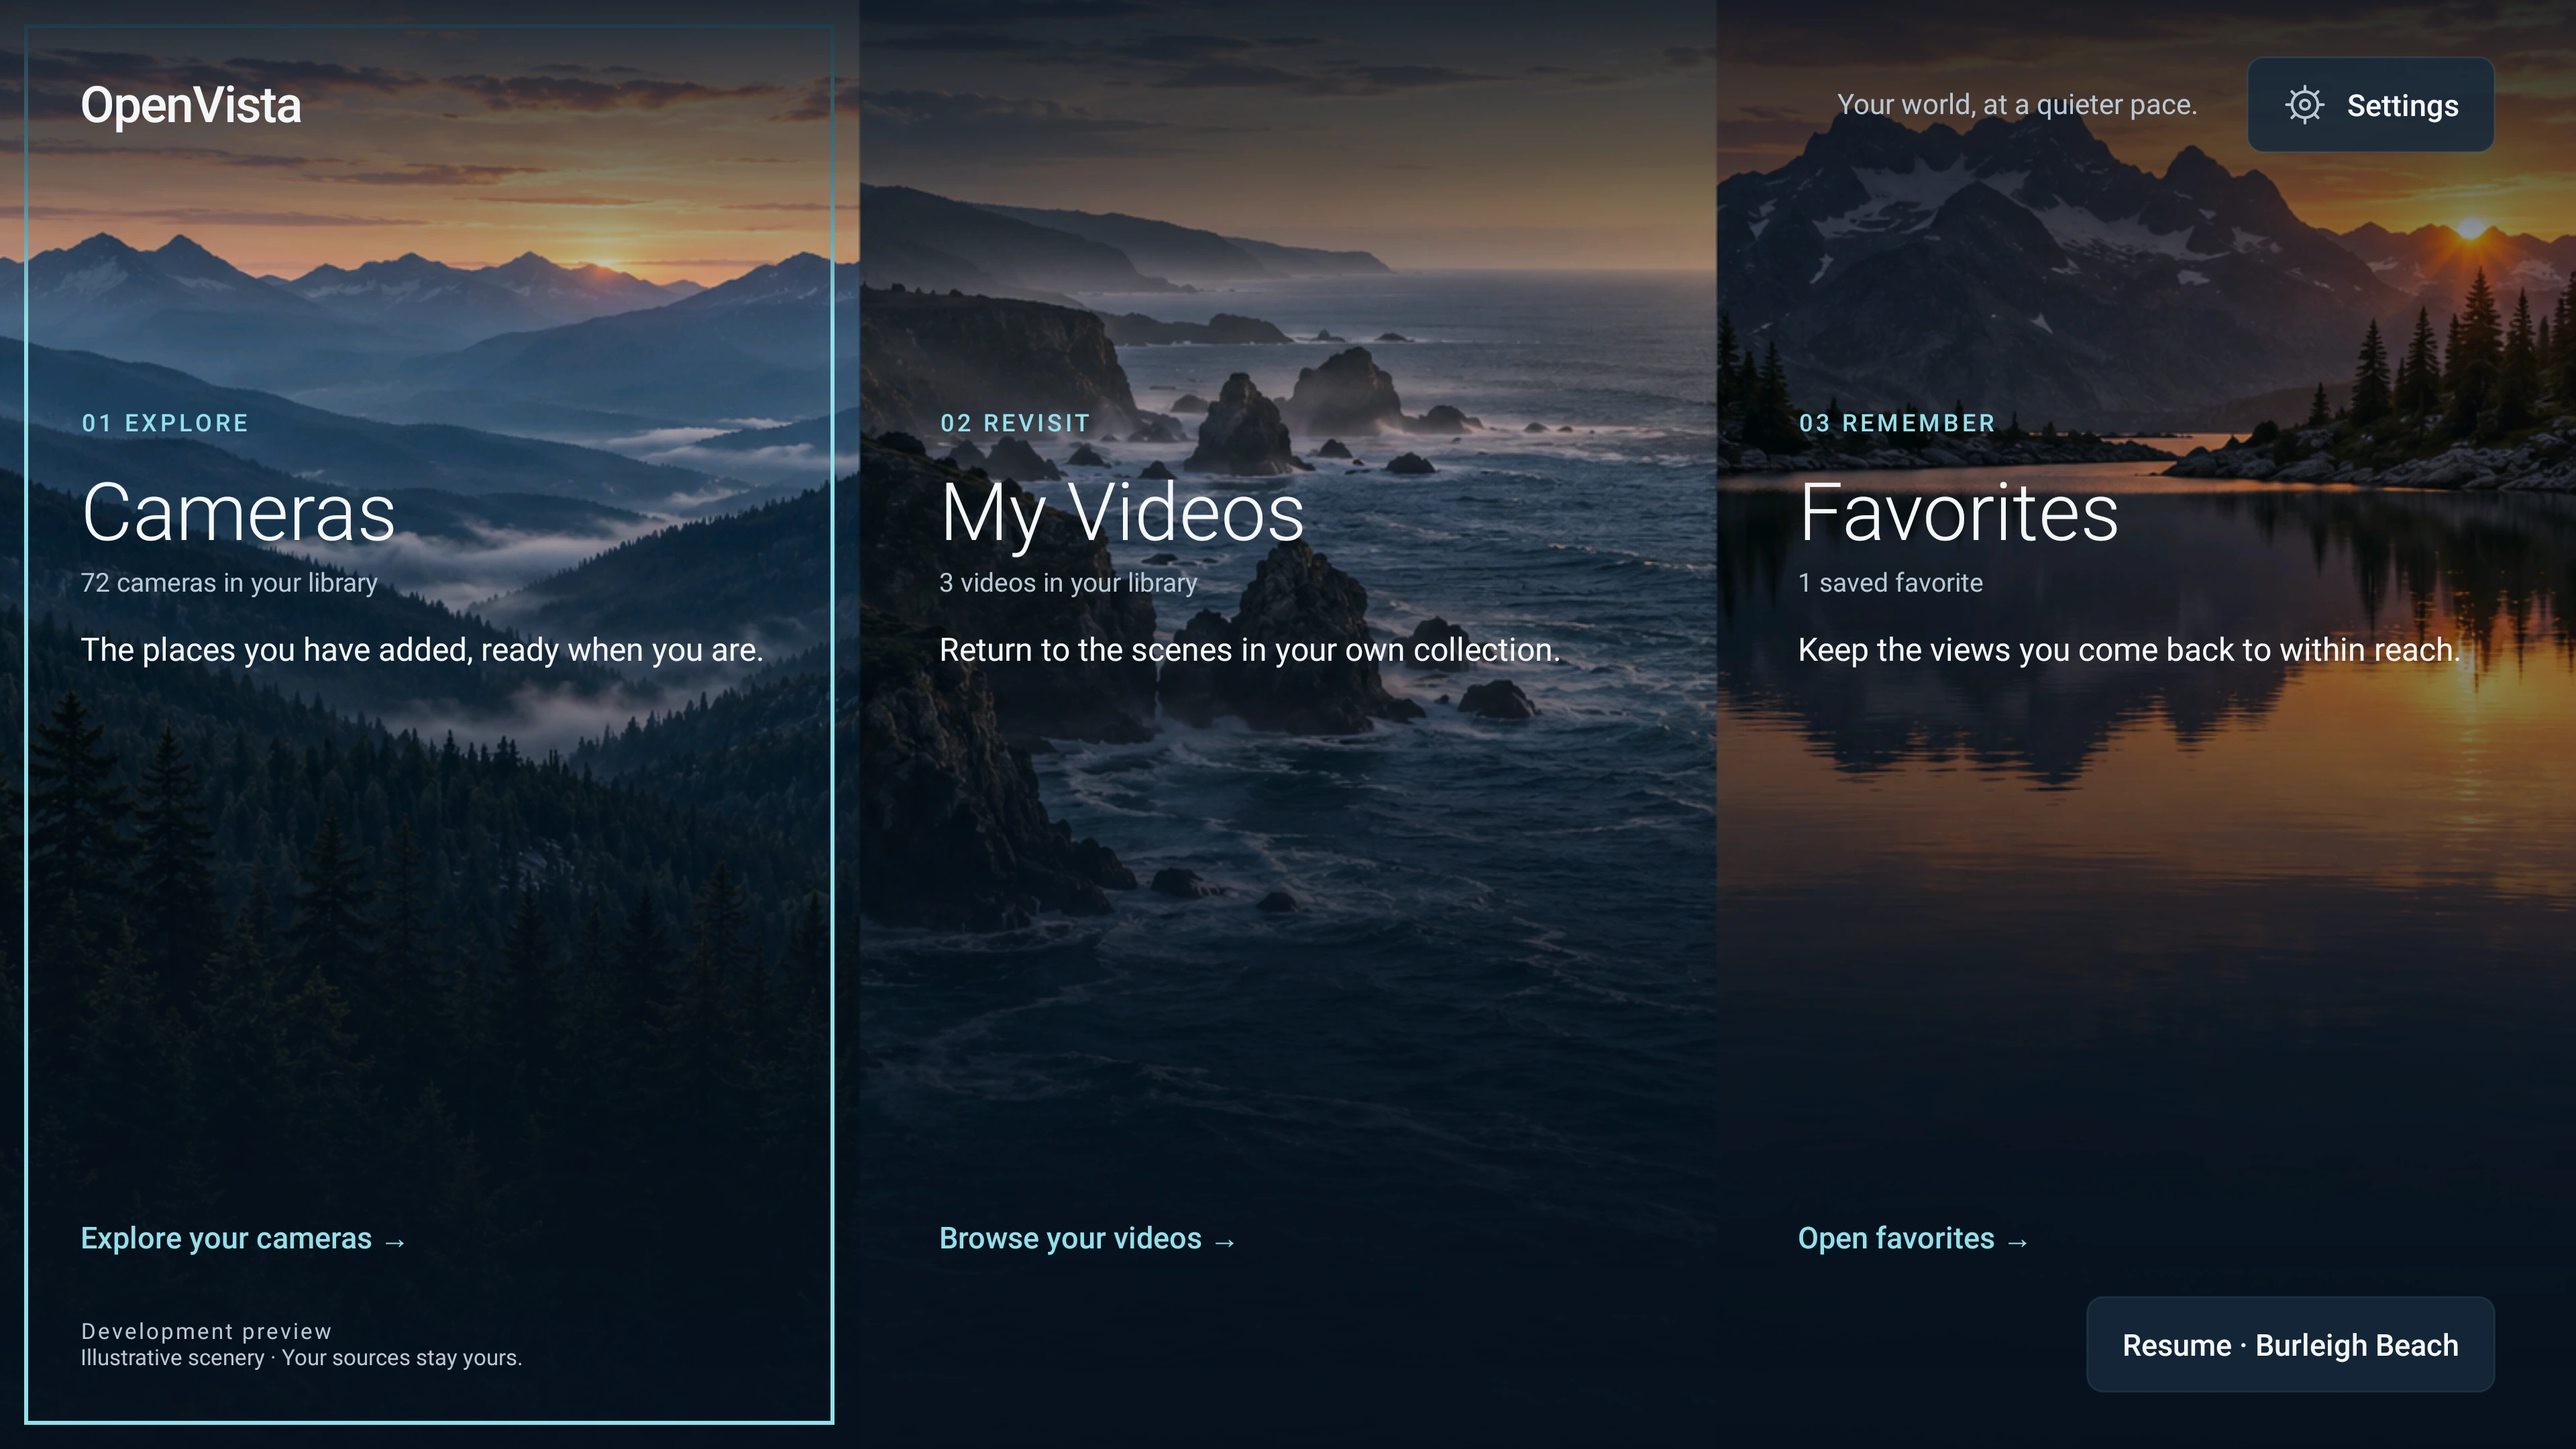
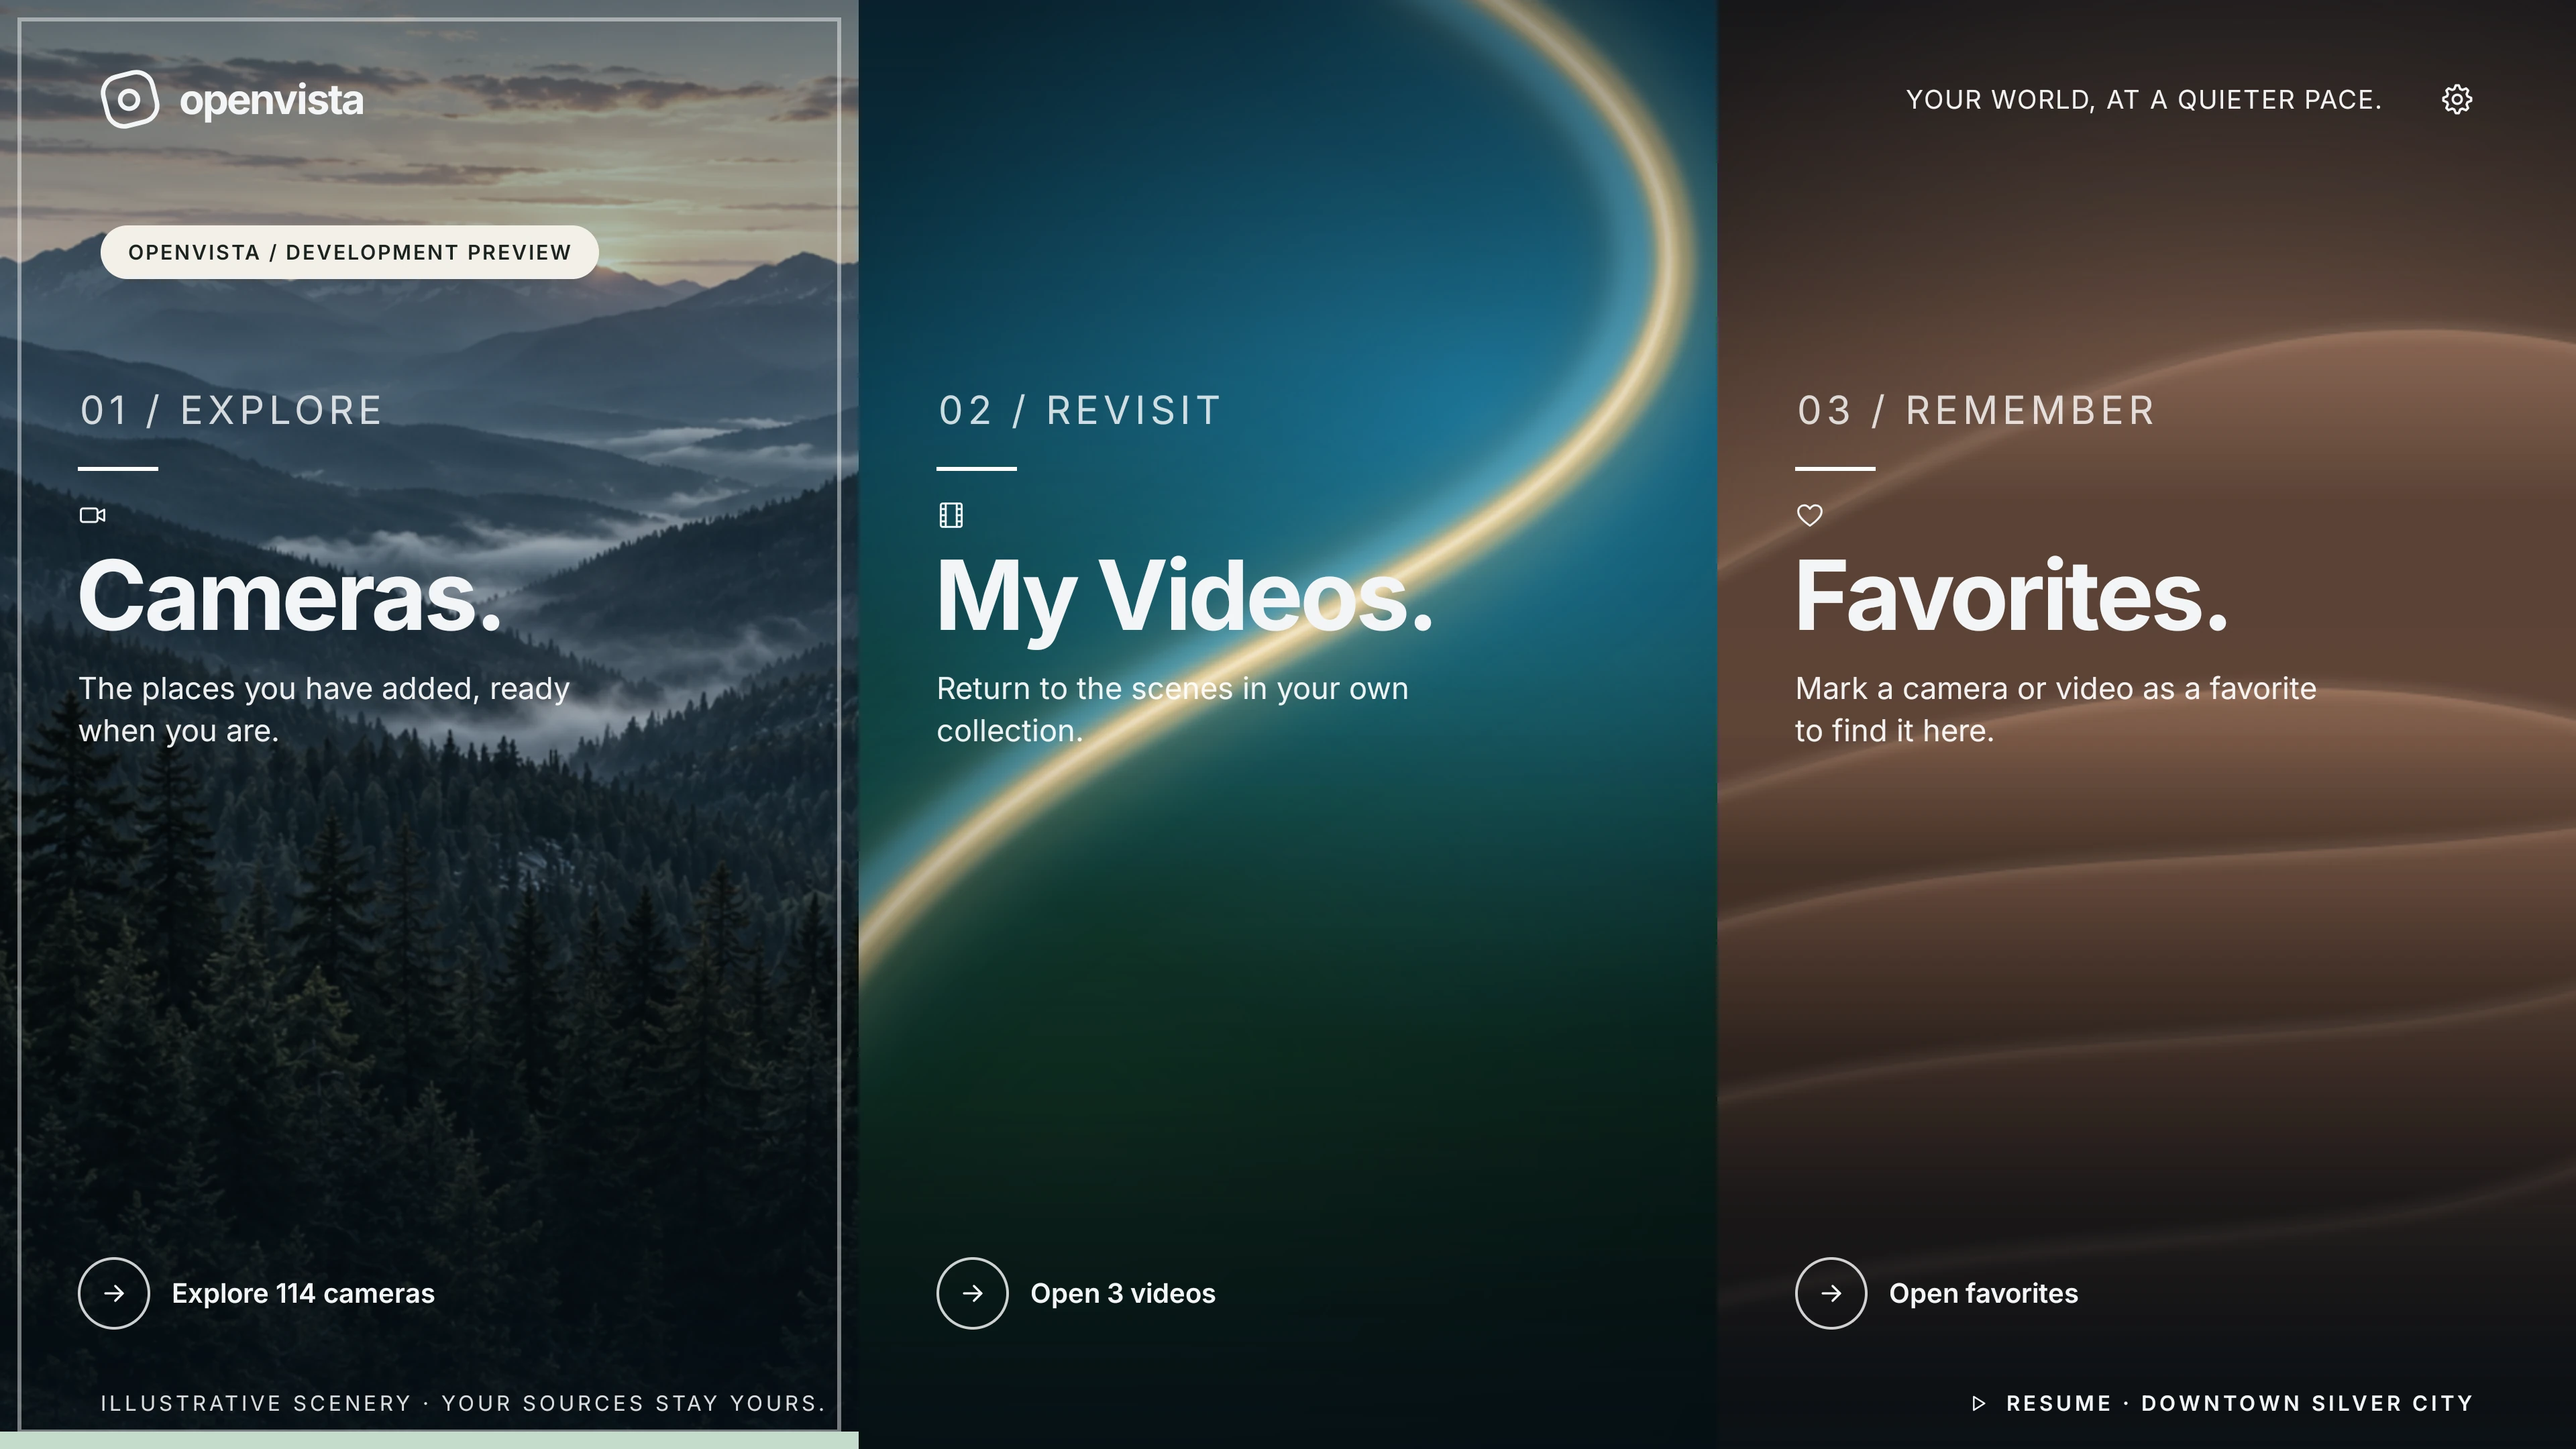
docs: refresh English TV screenshots in README

diff --git a/README.pt-BR.md b/README.pt-BR.md
@@ -27,7 +27,7 @@ Acesse câmeras, vídeos e favoritos em um só lugar.
 
 ### Reprodução de câmeras ao vivo
 
-<img src="assets/screenshots/live-camera.webp" alt="Reprodução de câmera ao vivo no OpenVista mostrando uma praia, localização, relógio e previsão do tempo" width="100%" />
+<img src="assets/screenshots/live-camera.webp" alt="Câmera ao vivo de Silver City, Estados Unidos, mostrando horário local, horário da câmera, clima e previsão de cinco dias" width="100%" />
 
 Aproveite a paisagem com relógio, informações do local e clima opcionais.
 

diff --git a/README.md b/README.md
@@ -27,7 +27,7 @@ Find your cameras, local videos and favorites in one place.
 
 ### Live camera player
 
-<img src="assets/screenshots/live-camera.webp" alt="OpenVista live camera player showing a beach, camera location, clocks, weather and forecast" width="100%" />
+<img src="assets/screenshots/live-camera.webp" alt="OpenVista live camera view of Silver City, United States, showing local time, camera time, weather and a five-day forecast" width="100%" />
 
 Enjoy the view with an optional clock, location details and weather.
 
